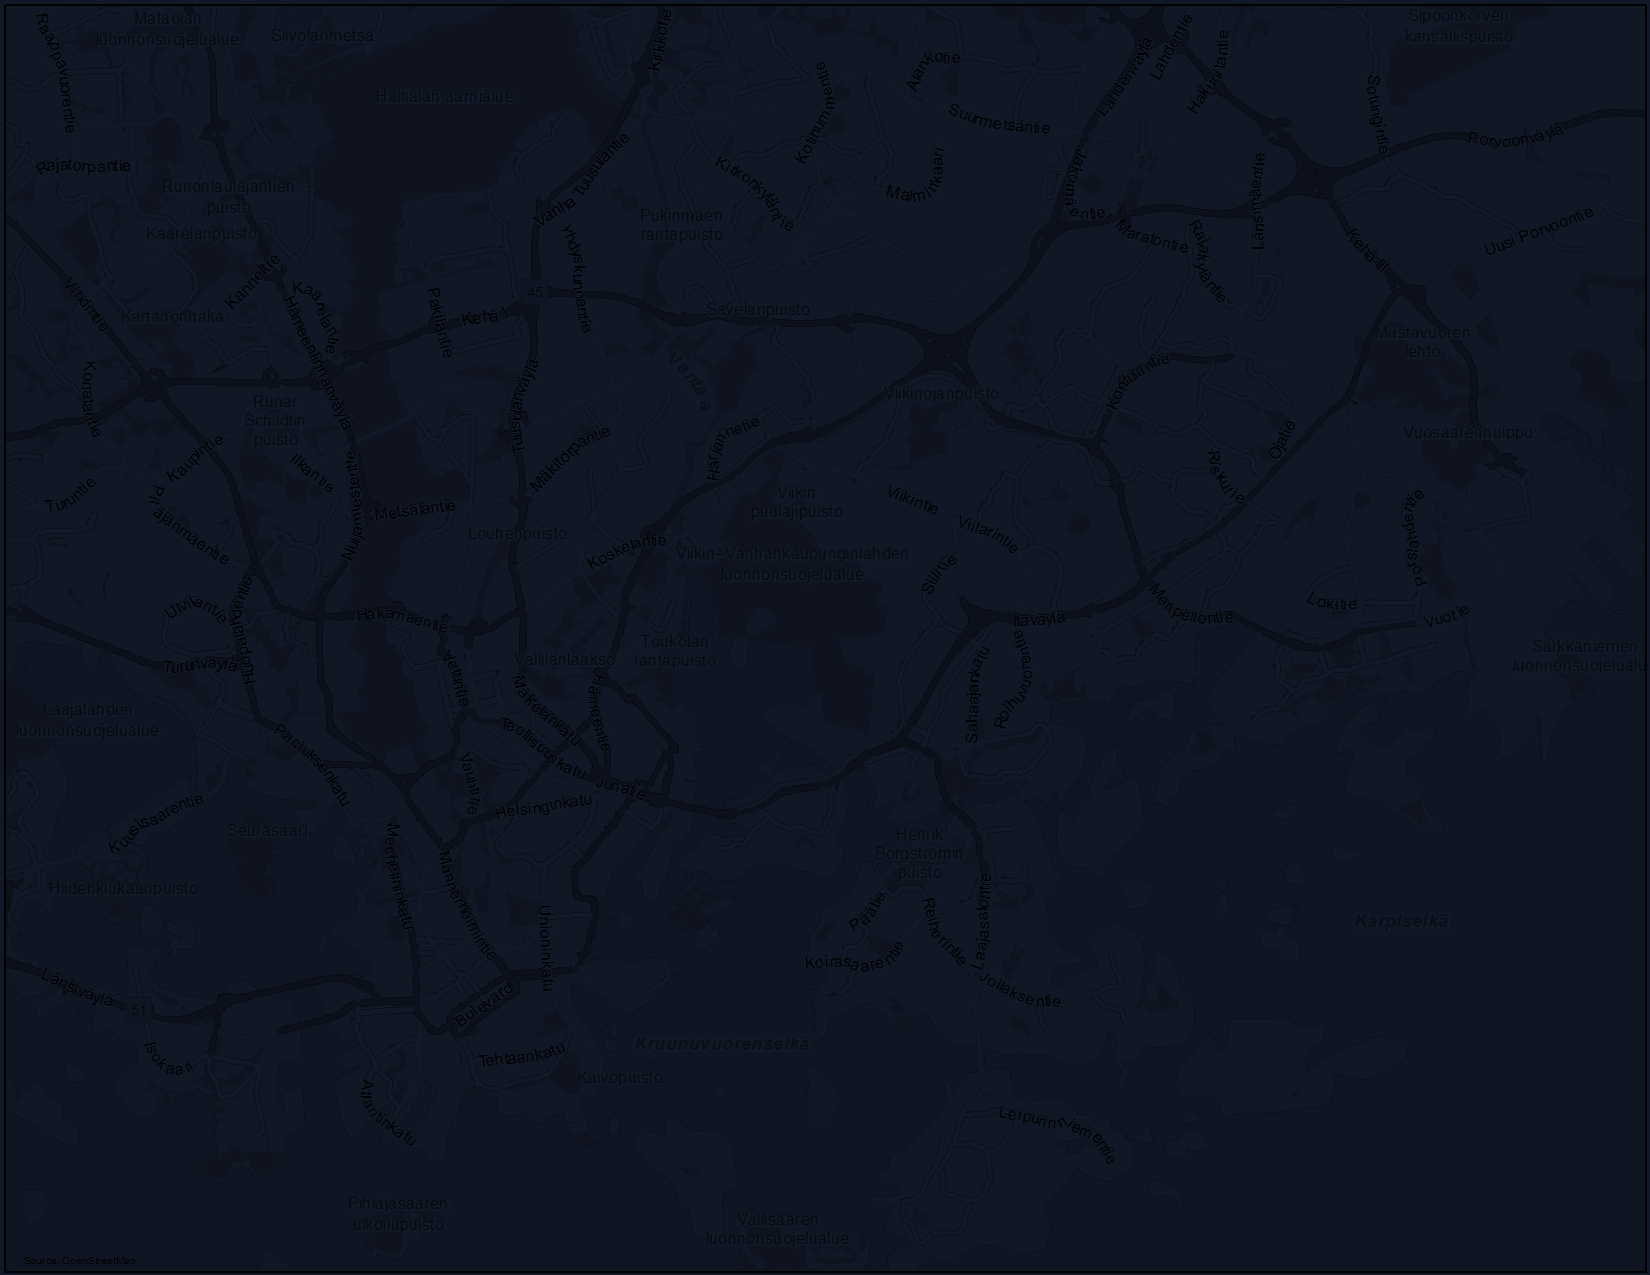
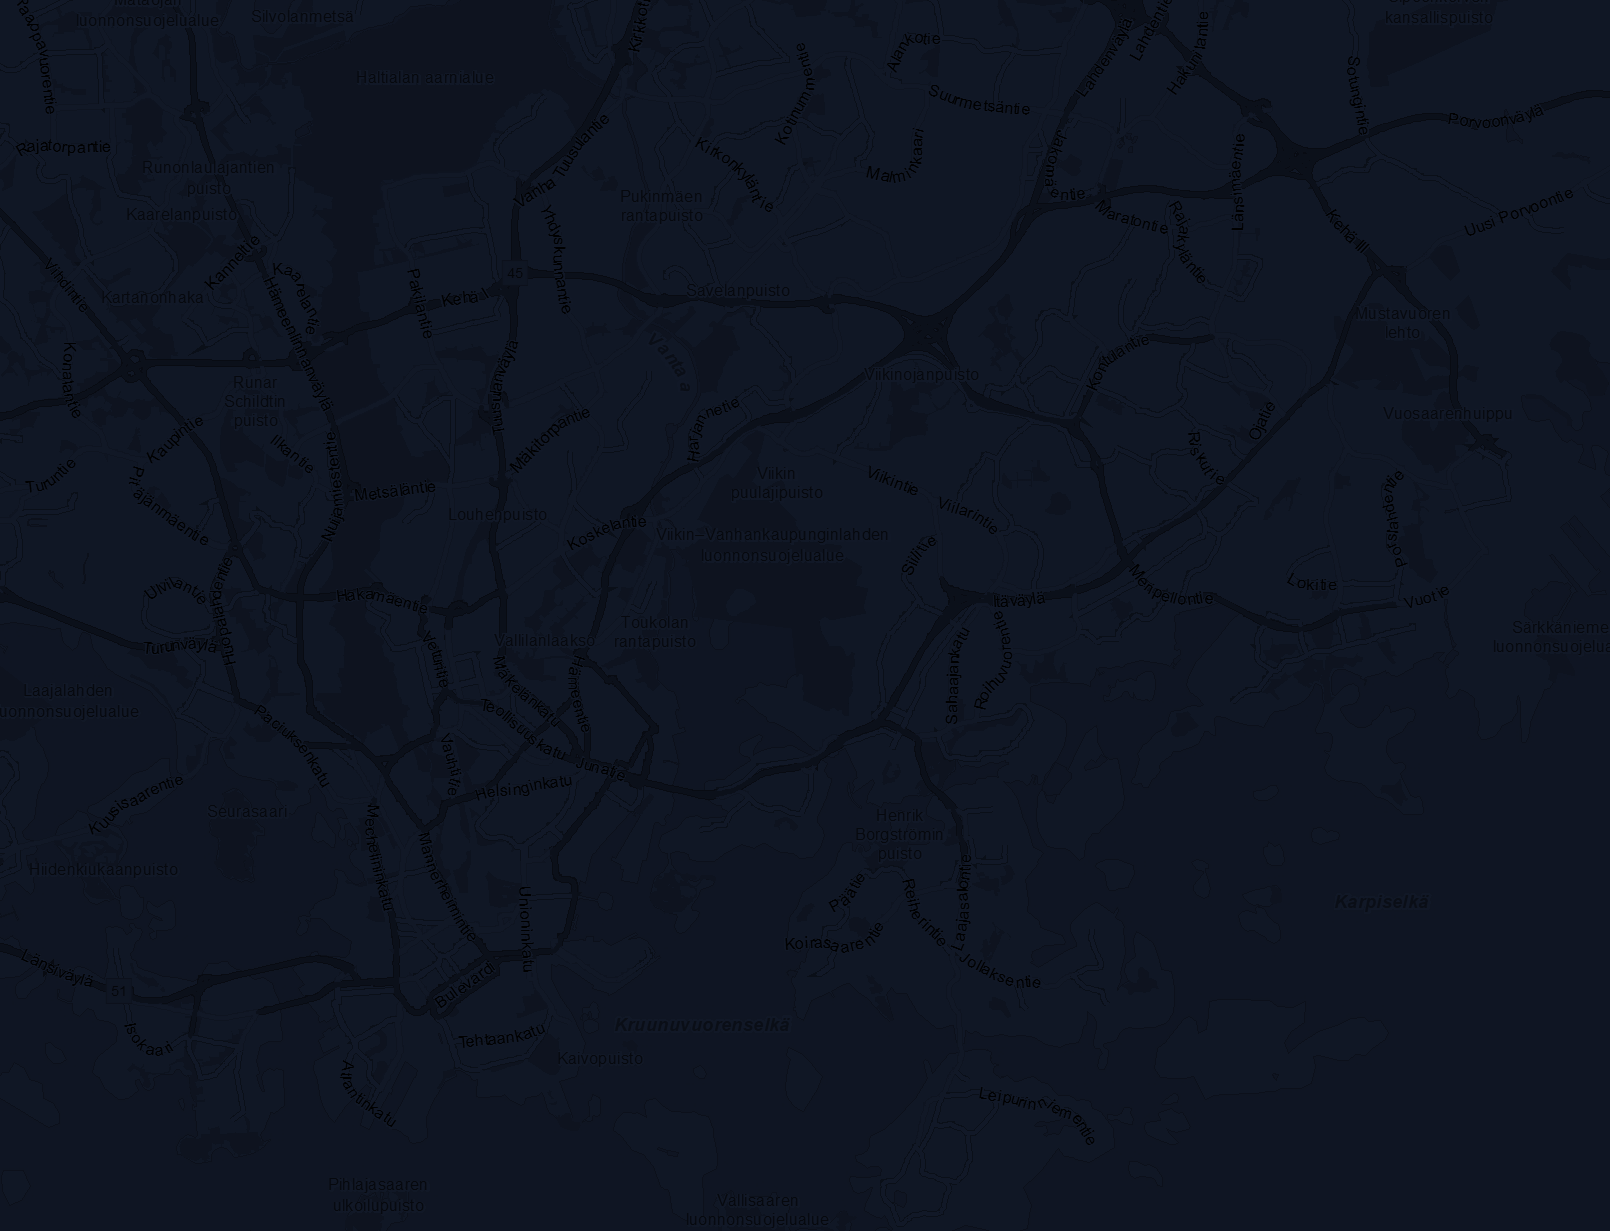
Fix background images

diff --git a/index.html b/index.html
@@ -6,7 +6,9 @@
     <meta name="viewport" content="width=device-width, initial-scale=1.0" />
     <title>Vite + React + TS</title>
   </head>
-  <body class="font-lg bg-slate-50 font-sans dark:bg-gray-900">
+  <body
+    class="font-lg bg-slate-50 bg-[url('/src/assets/light.png')] font-sans dark:bg-gray-900 dark:bg-[url('/src/assets/dark.png')]"
+  >
     <div id="root"></div>
     <script type="module" src="/src/main.tsx"></script>
   </body>

diff --git a/src/components/Navbar.tsx b/src/components/Navbar.tsx
@@ -11,7 +11,7 @@ const Navbar = () => {
     setTheme(!theme);
   };
   return (
-    <nav className="flex items-center justify-around bg-white bg-[url('/src/assets/light.png')] bg-center p-2 dark:bg-slate-800 dark:bg-[url('/src/assets/dark.png')] dark:text-gray-300">
+    <nav className="flex items-center justify-around bg-center p-2 dark:text-gray-300">
       <div>
         <Link to="/">Home</Link>
       </div>
